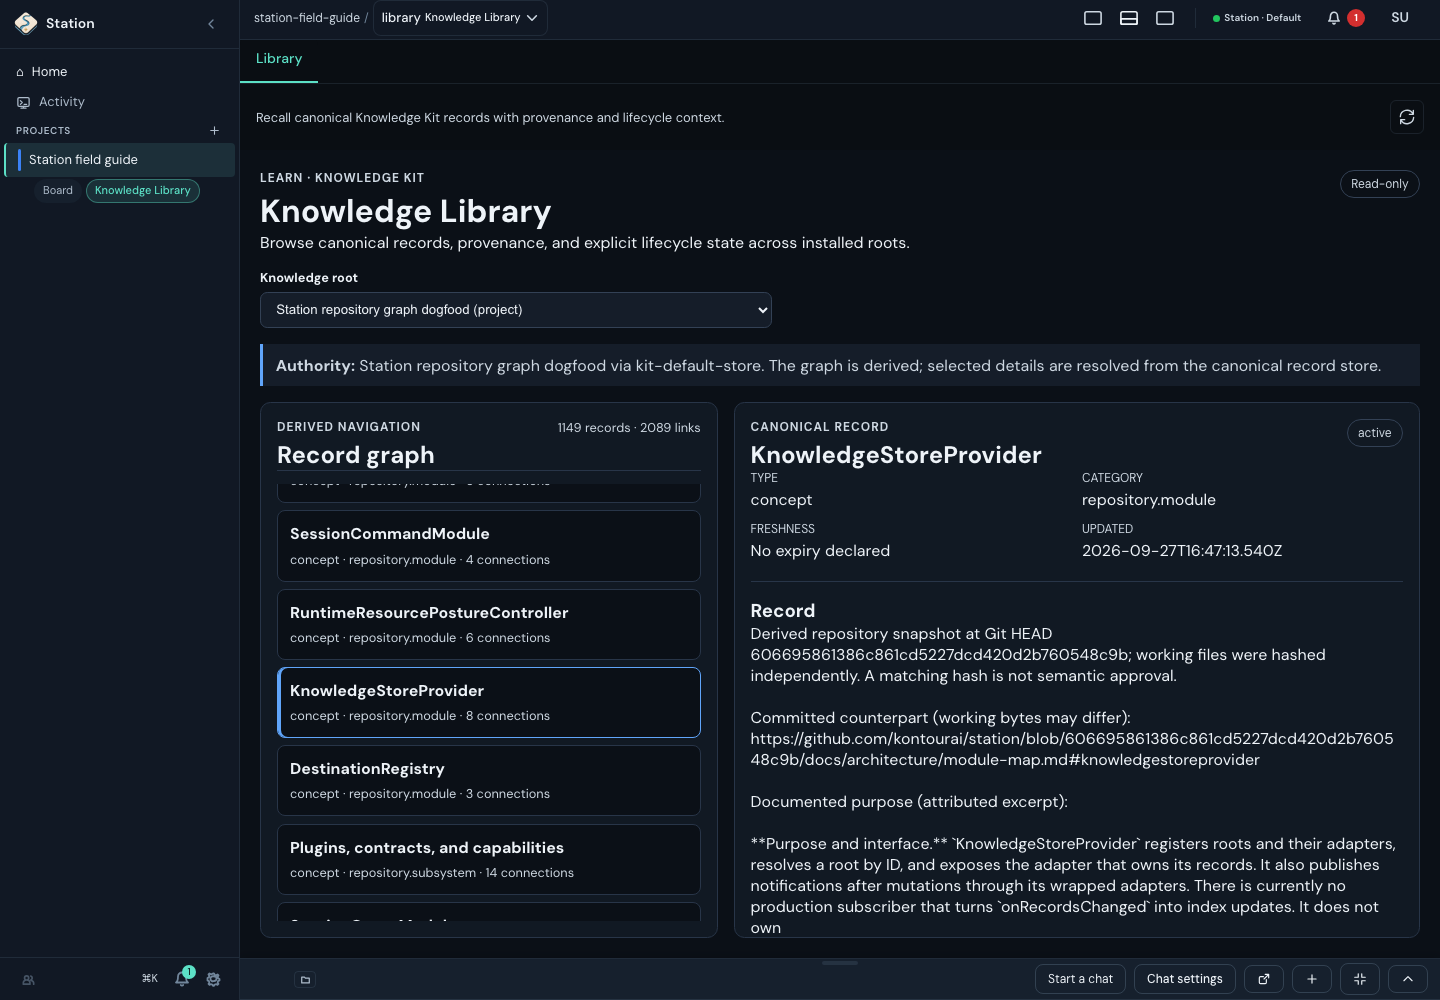
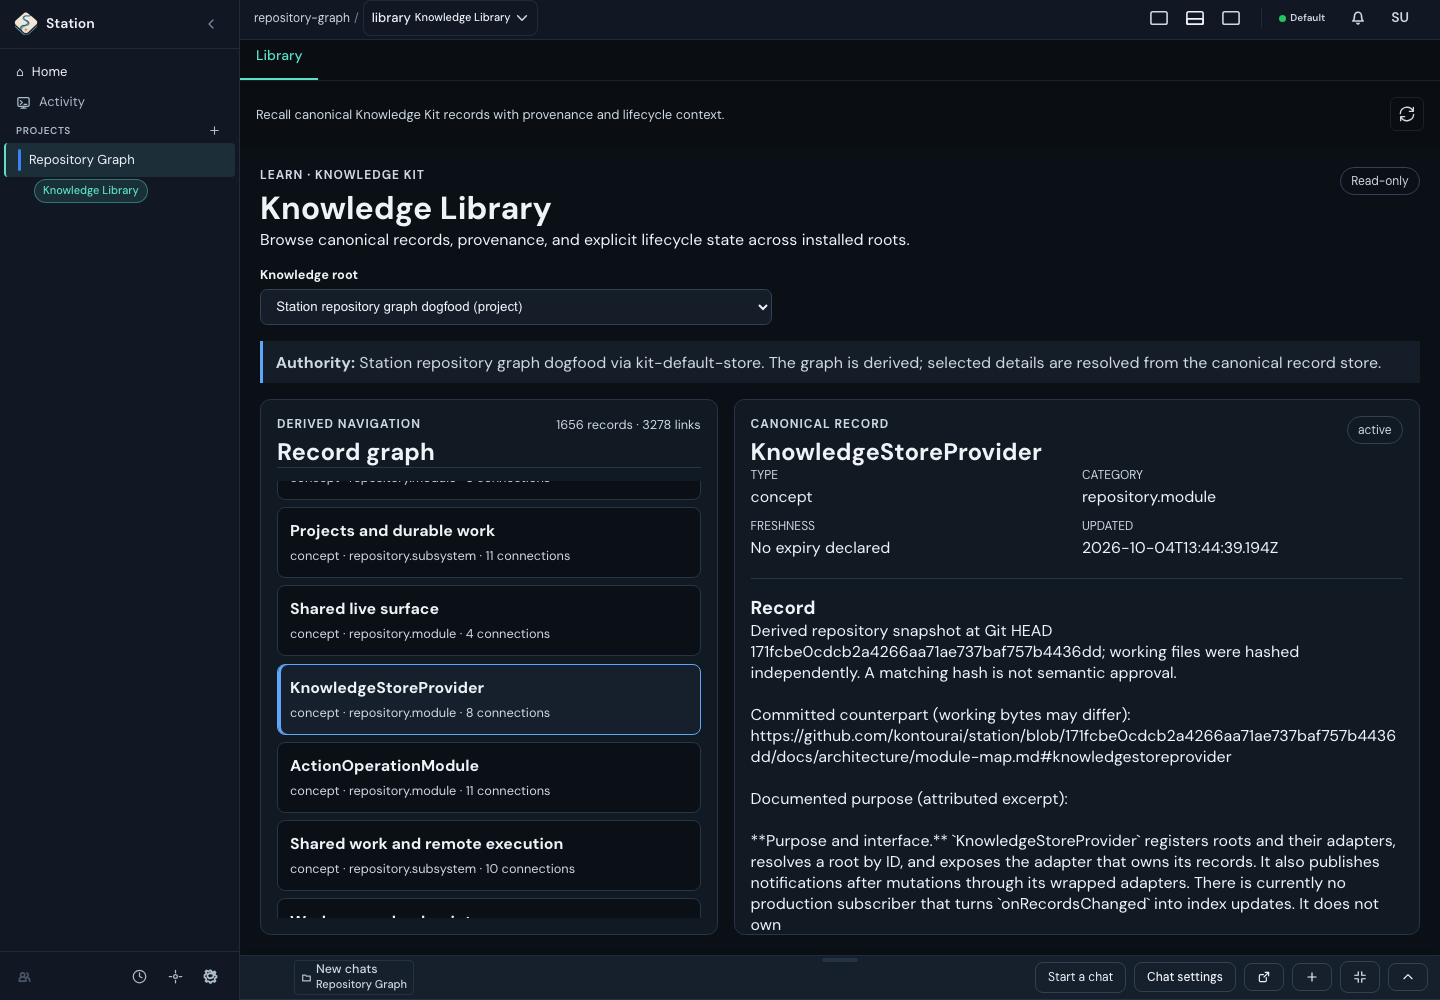
docs(learn): re-capture the Knowledge Library screenshots after the phone toolbar fix

diff --git a/docs/learn/walkthroughs.md b/docs/learn/walkthroughs.md
@@ -105,7 +105,7 @@ does not move the detail out of reach. At narrow widths they stack vertically.
 
 ![The same record list and detail at a narrow browser width.](media/repository-knowledge-narrow.png)
 
-These captures use an actual imported snapshot: 1,149 records and 2,089 links.
+These captures use an actual imported snapshot: 1,656 records and 3,278 links.
 Those counts describe this capture, not a fixed application limit or the latest
 repository. The record identifies the snapshot and attributes its purpose text
 to the module map. No model, embedding service or vector index was used.
